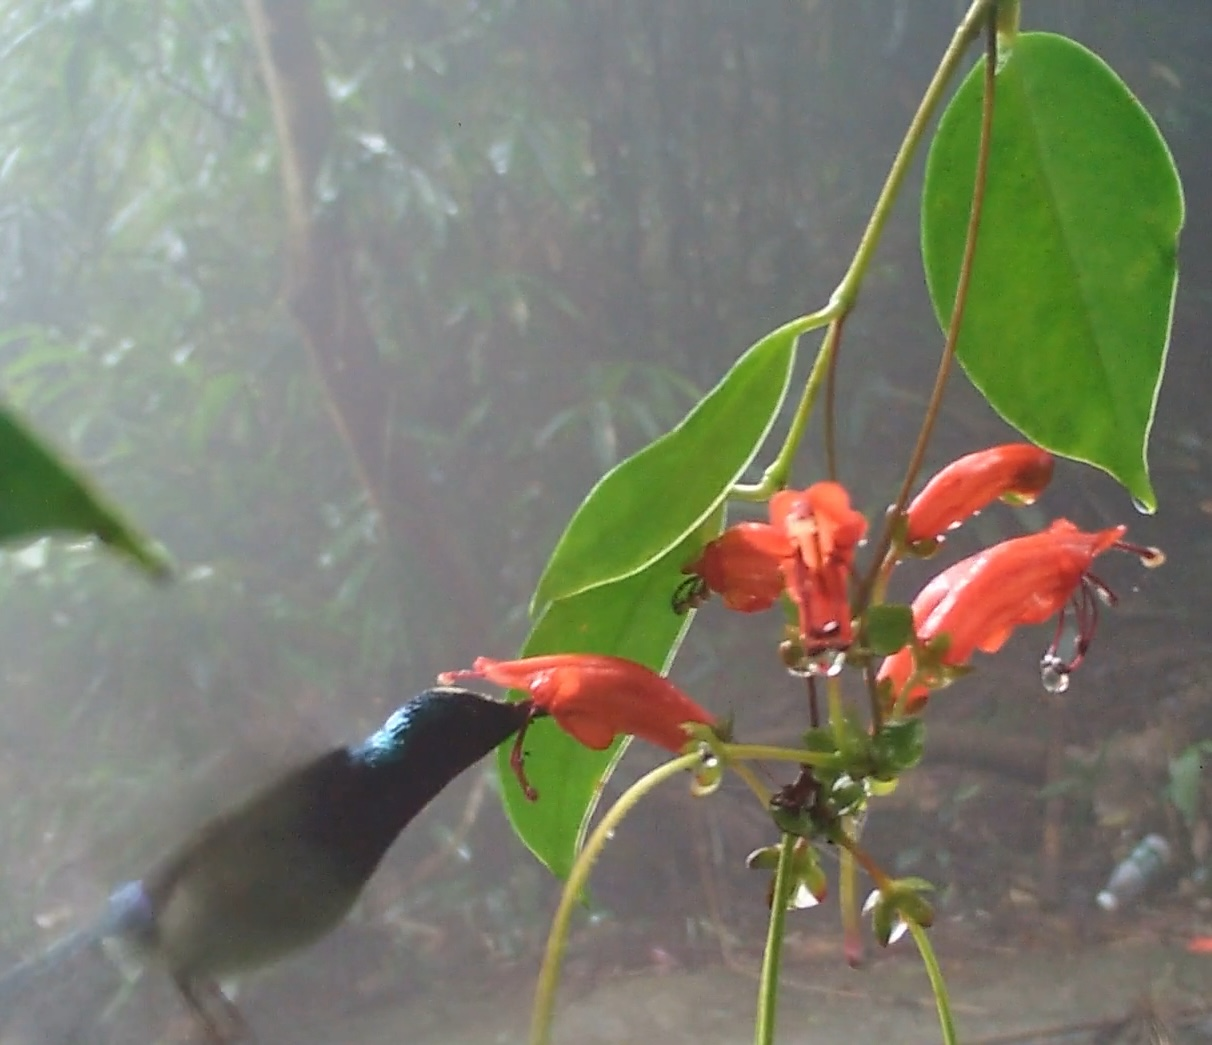
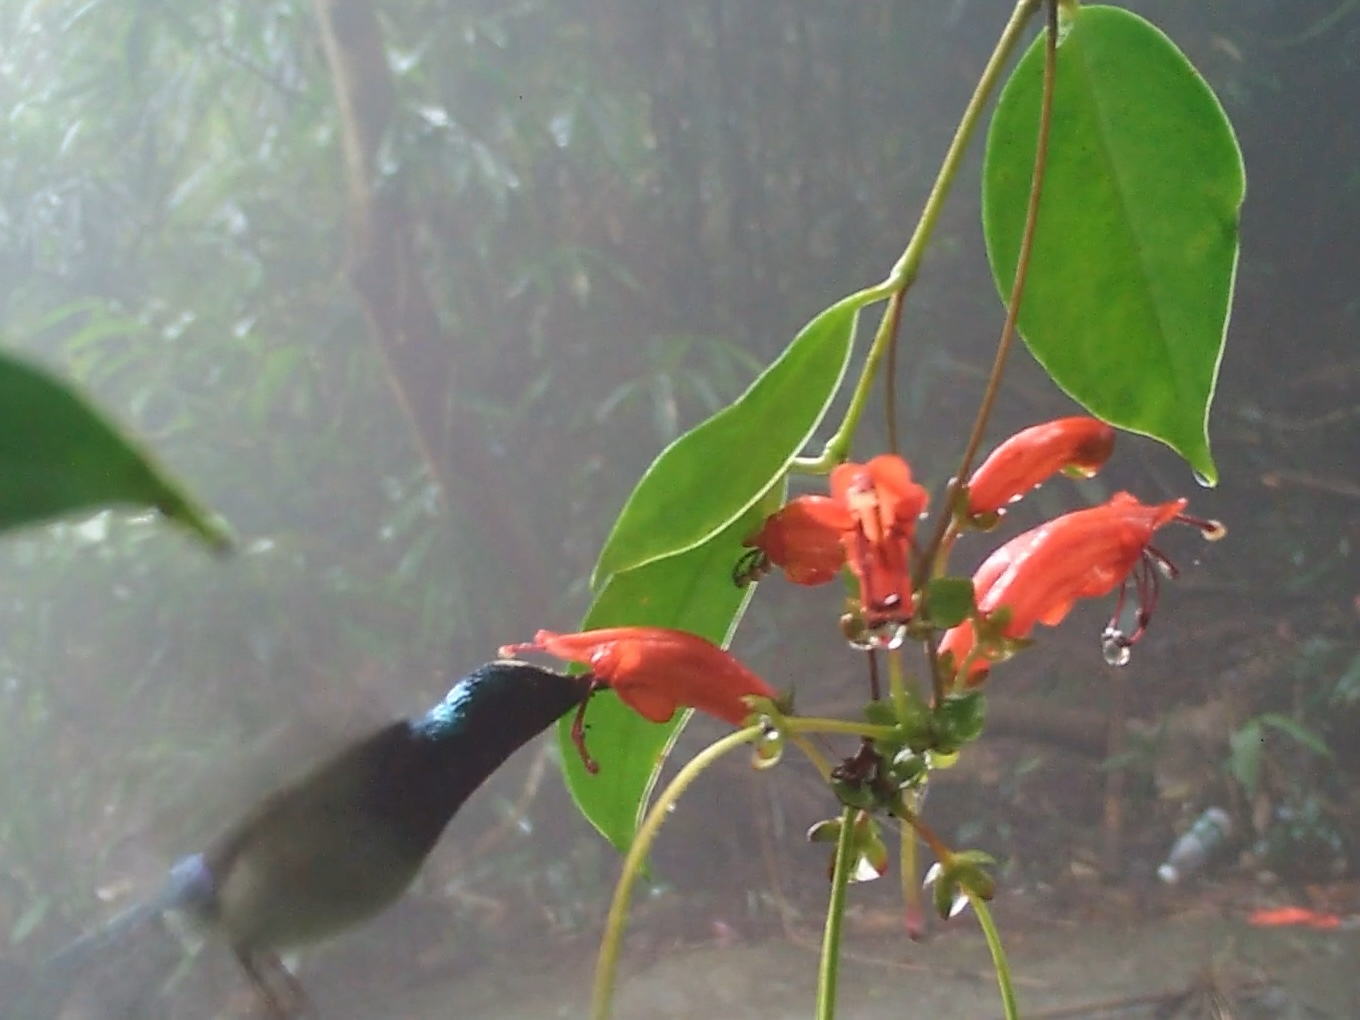
update research

diff --git a/assets/css/research.css b/assets/css/research.css
@@ -145,10 +145,9 @@
 
 .research-lightbox__caption {
   font-family: inherit;
-  font-size: 0.9rem;
+  font-size: 0.85rem;
   font-weight: normal;
   margin-top: 0.8rem;
-  font-size: 0.9em;
   line-height: 1.5;
   text-align: center;
 }

diff --git a/_pages/research.md b/_pages/research.md
@@ -53,7 +53,7 @@ Plant-pollinator interaction is a compelling subject for investigating the links
 
     <p>
       <strong>Related publication:</strong>
-      <a href="https://doi.org/10.1111/nph.70871">Lu et al. 2026 · <em>New Phytologist</em></a>.
+      <a href="https://doi.org/10.1111/nph.70871">Lu et al. 2026 · <em>New Phytol.</em></a>.
     </p>
   </div>
 </section>
@@ -86,16 +86,48 @@ Plant-pollinator interaction is a compelling subject for investigating the links
 
     <p>
       <strong>Related publications:</strong>
-      <a href="https://doi.org/10.1038/s41598-019-53035-2">Chen et al. 2019 · <em>Scientific Reports</em></a>;
-      <a href="https://doi.org/10.1086/744314">Lu et al. 2026 · <em>The American Naturalist</em></a>.
+      <a href="https://doi.org/10.1038/s41598-019-53035-2">Chen et al. 2019 · <em>Sci. Rep.</em></a>;
+      <a href="https://doi.org/10.1086/744314">Lu et al. 2026 · <em>Am. Nat.</em></a>.
     </p>
   </div>
-
-  <figure class="research-block__image">
-    <img src="/images/sunbird-moningerae.jpg"
-         alt="A male Fork-tailed Sunbird visiting the flower of Aeschynanthus moningerae by hovering"
-         loading="lazy">
-  </figure>
+  <div class="research-block__image">
+    <div class="research-gallery">
+      <button
+        type="button"
+        class="research-image-button"
+        aria-label="Enlarge Heterophasia-acuminatus"
+        aria-haspopup="dialog"
+        data-caption="A generalist passerine, White-eared Sibia (<em>Heterophasia auricularis</em>) visited <em>Aeschynanthus acuminatus</em> in Taiwan.">
+        <img
+          src="/images/Heterophasia-acuminatus.jpg"
+          alt="A generalist passerine, White-eared Sibia (Heterophasia auricularis) visited Aeschynanthus acuminatus in Taiwan."
+          loading="lazy">
+      </button>      
+      <button
+        type="button"
+        class="research-image-button"
+        aria-label="Enlarge sunbird-moningerae"
+        aria-haspopup="dialog"
+        data-caption="A male Fork-tailed Sunbird (<em>Aethopyga christinae</em>) visited <em>Aeschynanthus moningerae</em> by hovering in Hainan.">
+        <img
+          src="/images/sunbird-moningerae.jpg"
+          alt="A male Fork-tailed Sunbird (Aethopyga christinae) visited Aeschynanthus moningerae by hovering"
+          loading="lazy">
+      </button>
+      <button
+        type="button"
+        class="research-image-button"
+        aria-label="Enlarge sunbird-acuminatus"
+        aria-haspopup="dialog"
+        data-caption="A male Black-throated Sunbird (<em>Aethopyga saturata</em>) visited <em>Aeschynanthus acuminatus</em> in Yunnan.">
+        <img
+          src="/images/sunbird-acuminatus.jpg"
+          alt="A male Black-throated Sunbird (Aethopyga saturata) visited Aeschynanthus acuminatus in Yunnan."
+          loading="lazy">
+      </button>
+    </div>
+    <p class="research-gallery-note">Select an image to enlarge.</p>
+  </div>
 </section>
 
 
